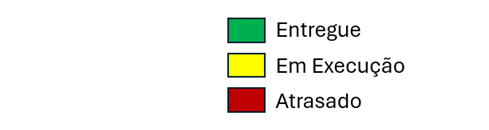
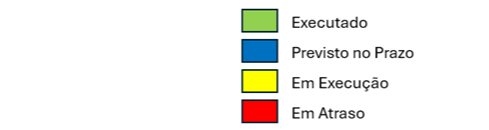
ajuste de legenda

Changed region(s): [[0.4601, 0.0615, 0.8589, 0.9538]]

diff --git a/app/main.py b/app/main.py
@@ -33,7 +33,9 @@ def init(app):
         config.read(config_location)
         app.config['UPLOAD_FOLDER'] = config.get("config", "UPLOAD_FOLDER")
         app.config['ALLOWED_EXTENSIONS'] = config.get(
-            "config", "ALLOWED_EXTENSIONS")
+            "config",
+            "ALLOWED_EXTENSIONS"
+        )
         app.config['BARRADIR'] = config.get("config", "BARRADIR")
         app.config['DIRSYS'] = config.get("config", "DIRSYS")
 
@@ -48,3 +50,4 @@ def init(app):
 if __name__ == "__main__" or __name__ == "main":
     init(app)
     app.run(host="0.0.0.0", port=5000)
+    logger.info('Aplicação rodando...')

diff --git a/app/router/tabelas.py b/app/router/tabelas.py
@@ -920,7 +920,6 @@ def tab_empreend_capa():
 def gerar_tab_empreend_capa(idEmpreend, mes, ano):
     empCtrl = empreendimentoController()
     emp = empCtrl.consultarEmpreendimentoPeloId(idEmpreend)
-    fig, ax = plt.subplots(1, 1)
     medAtual = medCtrl.consultarMedicaoAtual(idEmpreend)
     medAnterior = None
     dataAtual = (medAtual.getDataMedicao()
